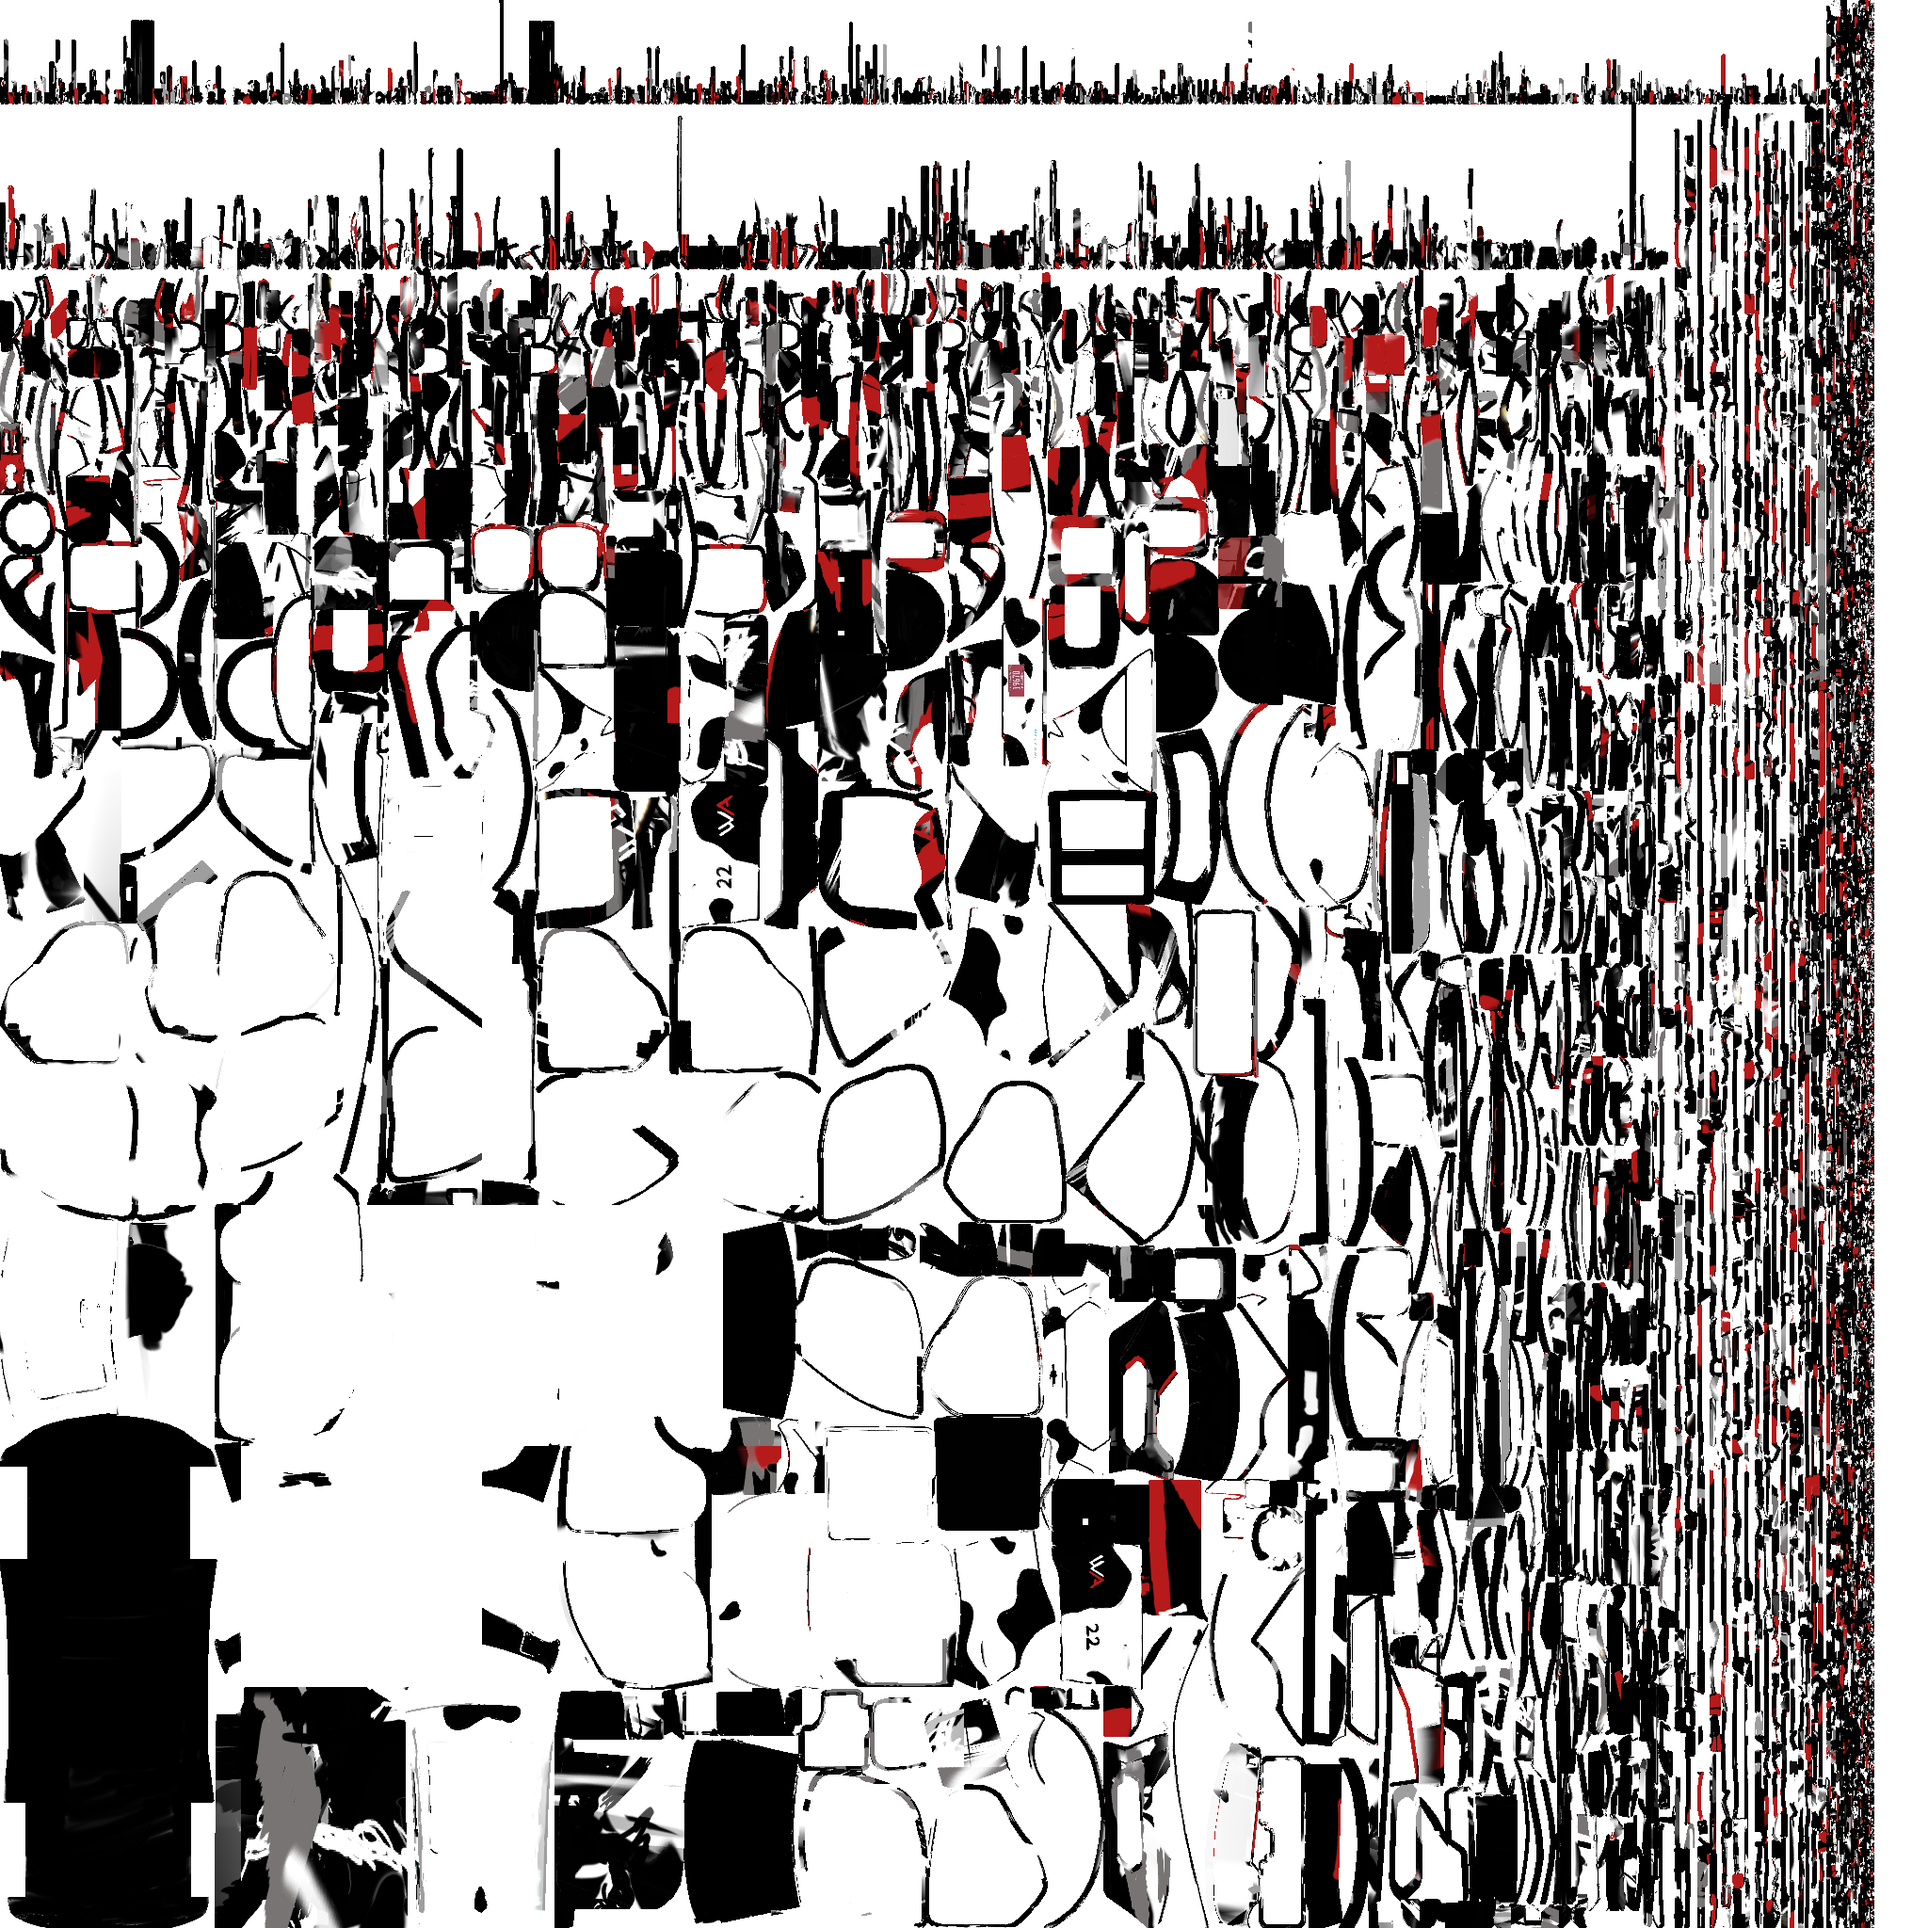
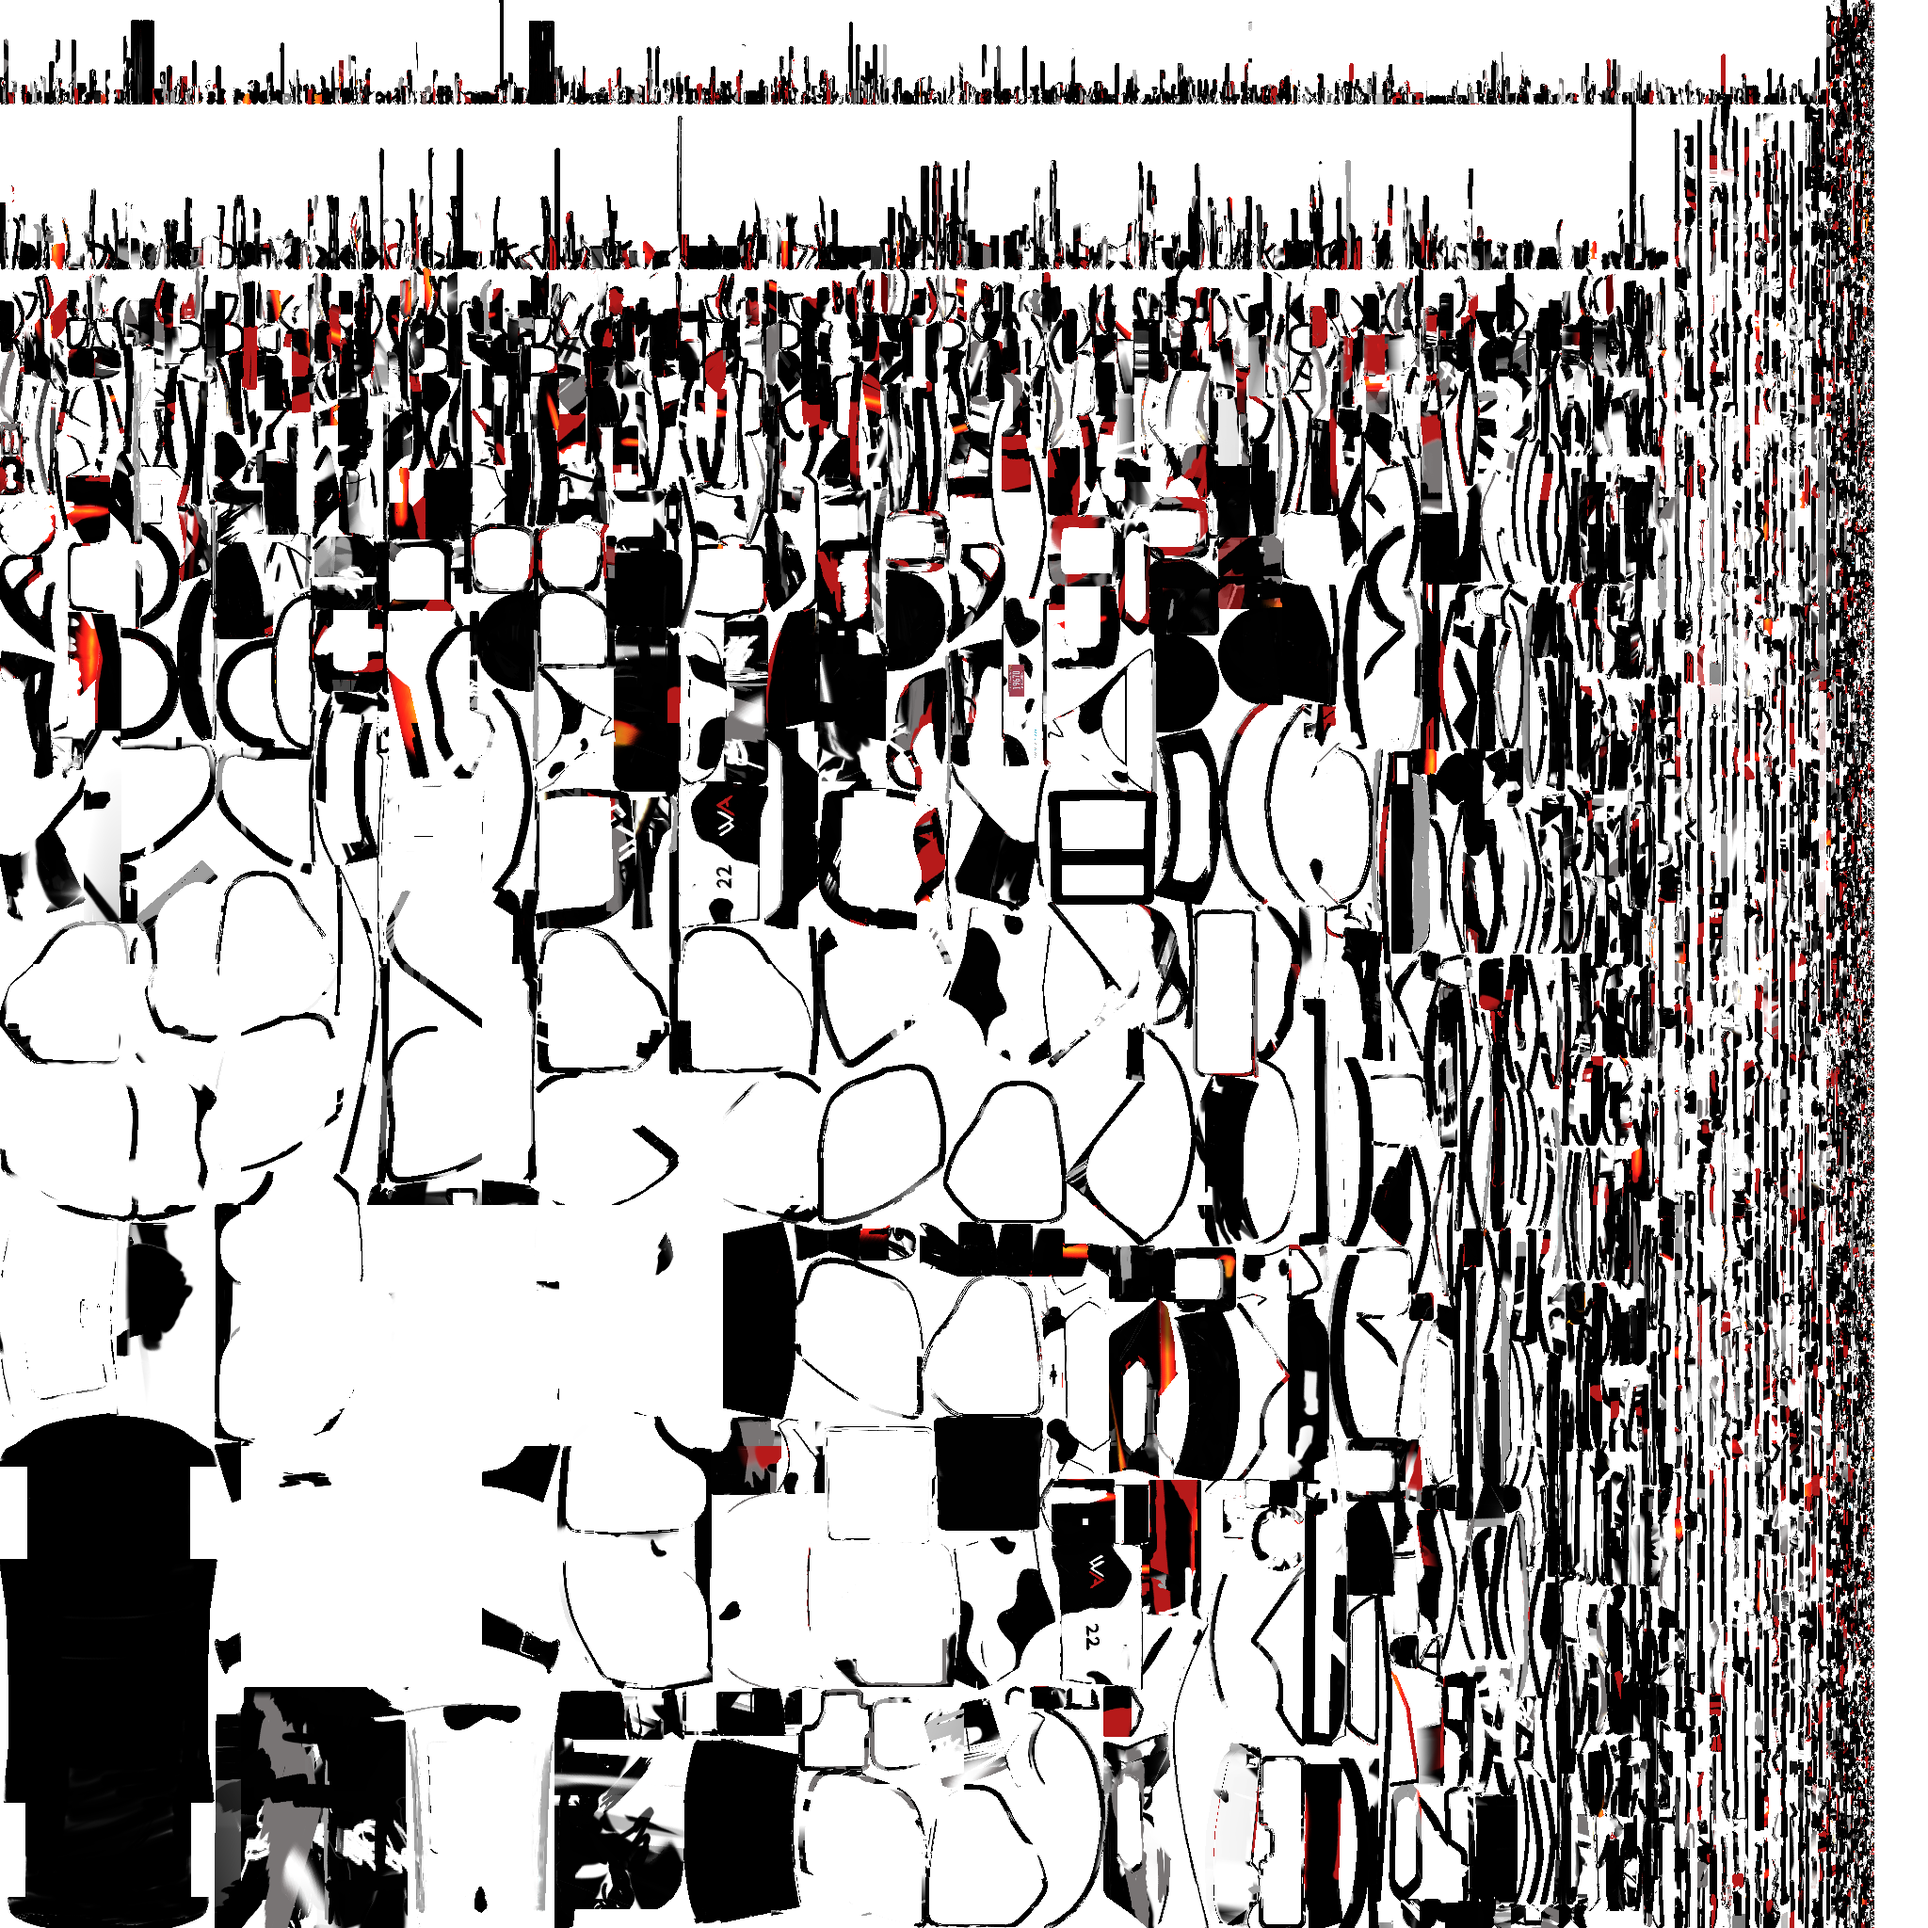
add brake lights

diff --git a/server/testbed.py b/server/testbed.py
@@ -465,17 +465,26 @@ class AVHMI(pyglet.window.Window):
         self.ego = Ego()
         car_obj_path = "assets/WAutoCar.obj"
         self.car_mesh: Optional[Mesh] = None
+        self.tex_normal = None
+        self.tex_brake = None
         try:
             tri_pos, tri_uv, tex_path = load_obj_with_uv_mtl(car_obj_path, scale= 1.0, center_y=0.0)
             if tri_uv and tex_path:
-                tex = create_texture_2d(tex_path)
-                if tex:
+                self.tex_normal = create_texture_2d(tex_path)
+                if self.tex_normal:
                     self.car_mesh = Mesh(
-                        tri_pos, None, tri_uv, tex.id, gl.GL_TRIANGLES,
+                        tri_pos, None, tri_uv, self.tex_normal.id, gl.GL_TRIANGLES,
                         mat4_mul(mat4_translate(*self.ego.pos), mat4_rotate_y(self.ego.yaw)),
-                        _tex_obj=tex,  # keep it alive
+                        _tex_obj=self.tex_normal,  # keep it alive
                     )
                     print(f"Loaded textured car: {len(tri_pos)//3} tris, tex='{tex_path}'")
+                base, ext = os.path.splitext(tex_path)
+                tex_brake_path = f"{base}_brake{ext}"
+                if os.path.isfile(tex_brake_path):
+                    self.tex_brake = create_texture_2d(tex_brake_path)
+                    print(f"Loaded brake light texture: {tex_brake_path}")
+                else:
+                    print("No _brake texture found, using default")
             if self.car_mesh is None:
                 # Fallback: flat color if no UV/texture
                 color = (0.12, 0.75, 0.90)
@@ -616,6 +625,7 @@ class AVHMI(pyglet.window.Window):
         throttle  = 1.0 if self.keys[key.W] else 0.0
         brake     = 1.0 if (self.keys[key.S] or self.keys[key.SPACE]) else 0.0
         steer_cmd = (1.0 if self.keys[key.D] else 0.0) - (1.0 if self.keys[key.A] else 0.0)
+        self.brake_on = brake > 0.1
 
         self.ego.update(dt, throttle, steer_cmd, brake)
         for w in self.wheels:
@@ -651,13 +661,6 @@ class AVHMI(pyglet.window.Window):
         for ln in self.lanes:
             self.renderer.draw_mesh(ln, pv)
 
-        # # Draw car
-        # if self.car_mesh:
-        #     self.car_mesh.model = mat4_mul(mat4_translate(*self.ego.pos), mat4_rotate_y(self.ego.yaw))
-        #     self.renderer.draw_mesh(self.car_mesh, pv)
-        # else:
-        #     self.renderer.draw_mesh(self.ego.mesh, pv)
-
         # Car model matrix once
         car_T = mat4_translate(*self.ego.pos)
         car_R = mat4_rotate_y(self.ego.yaw)
@@ -666,7 +669,10 @@ class AVHMI(pyglet.window.Window):
         # Draw car
         if self.car_mesh:
             self.car_mesh.model = car_M
-            self.renderer.draw_mesh(self.car_mesh, pv)
+            active_tex = self.tex_brake if (self.brake_on and self.tex_brake) else self.tex_normal
+            if active_tex:
+                self.car_mesh.texture_id = active_tex.id
+                self.renderer.draw_mesh(self.car_mesh, pv)
         else:
             self.ego.mesh.model = car_M
             self.renderer.draw_mesh(self.ego.mesh, pv)
